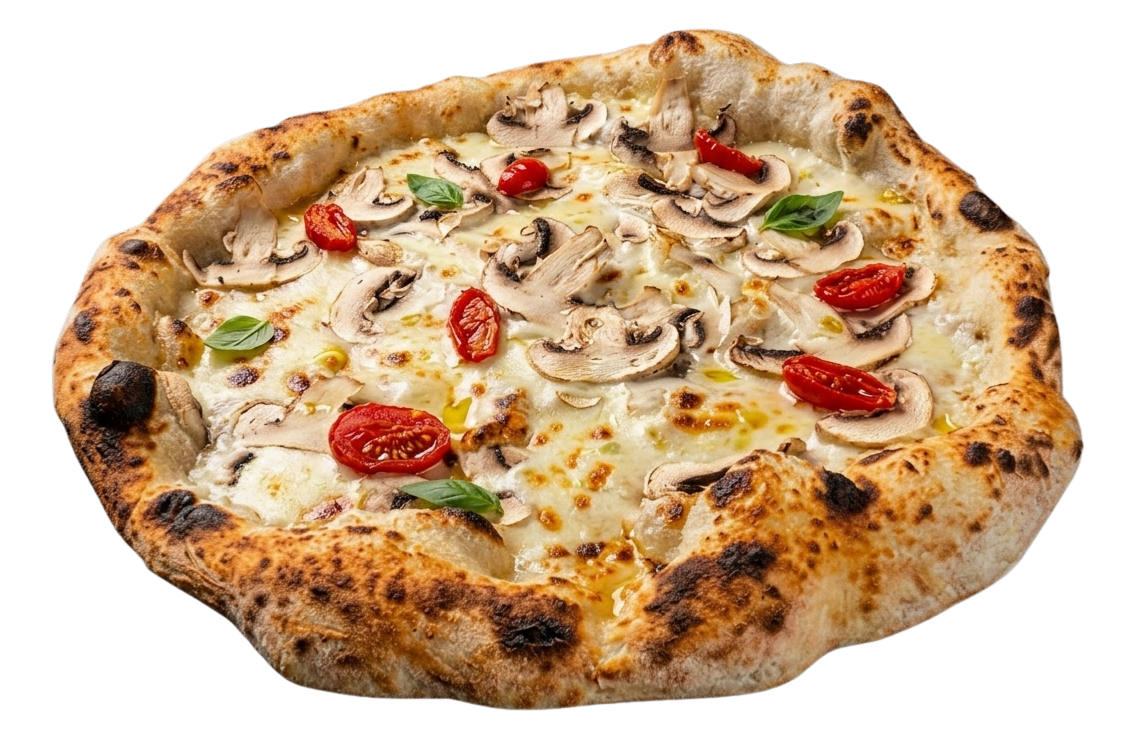
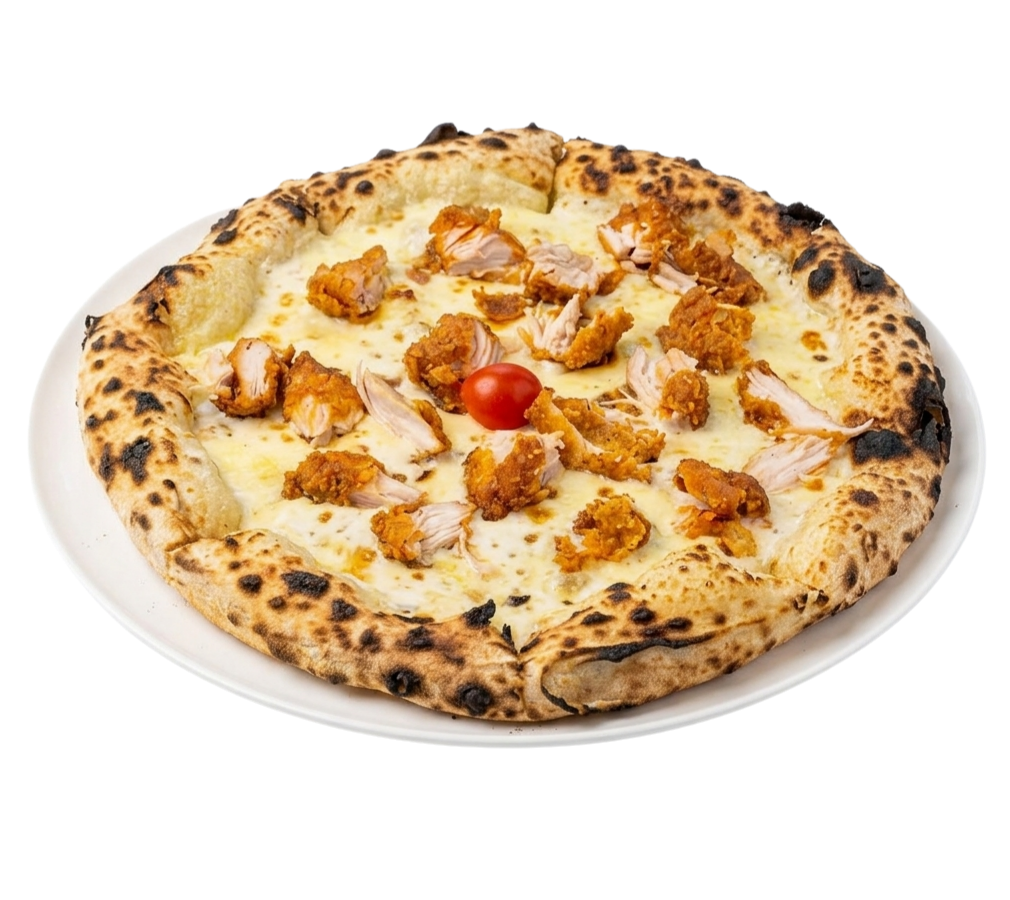
feat: améliorer la gestion des sections et des sous-catégories dans le menu

diff --git a/src/components/publicOrder/DishList.tsx b/src/components/publicOrder/DishList.tsx
@@ -24,6 +24,12 @@ function getCategoryId(item: MenuItem): string {
   return typeof item.category === "object" ? item.category._id : item.category;
 }
 
+function getBasePrice(item: MenuItem): number {
+  return item.variants.length
+    ? Math.min(...item.variants.map((variant) => variant.price))
+    : Number.POSITIVE_INFINITY;
+}
+
 /**
  * Grille des plats, et hôte de la fiche produit.
  *
@@ -99,17 +105,49 @@ export function DishList({ items, nav }: DishListProps) {
       ? items.filter((item) => activeIds.includes(getCategoryId(item)))
       : items;
 
-    if (!search.trim()) return byCategory;
+    const searchedItems = !search.trim()
+      ? byCategory
+      : (() => {
+          // La recherche couvre la description : on retrouve souvent un plat
+          // par un ingrédient dont on a oublié le nom.
+          const query = search.toLowerCase();
+          return byCategory.filter(
+            (item) =>
+              item.name.toLowerCase().includes(query) ||
+              item.description?.toLowerCase().includes(query),
+          );
+        })();
 
-    // La recherche couvre la description : on retrouve souvent un plat par un
-    // ingrédient dont on a oublié le nom.
-    const query = search.toLowerCase();
-    return byCategory.filter(
-      (item) =>
-        item.name.toLowerCase().includes(query) ||
-        item.description?.toLowerCase().includes(query),
+    const sections =
+      nav.find((group) => group.label === groupLabel)?.sections ?? [];
+    const sectionRankByItemId = new Map(
+      sections.flatMap((section, index) =>
+        section.itemIds.map((itemId) => [itemId, index] as const),
+      ),
     );
+
+    return [...searchedItems].sort((a, b) => {
+      const sectionA =
+        sectionRankByItemId.get(a._id) ?? Number.POSITIVE_INFINITY;
+      const sectionB =
+        sectionRankByItemId.get(b._id) ?? Number.POSITIVE_INFINITY;
+      return (
+        sectionA - sectionB ||
+        getBasePrice(a) - getBasePrice(b) ||
+        a.name.localeCompare(b.name, "fr")
+      );
+    });
   }, [items, nav, groupLabel, subCategoryId, search]);
+
+  const sectionsByItemId = useMemo(() => {
+    const sections =
+      nav.find((group) => group.label === groupLabel)?.sections ?? [];
+    return new Map(
+      sections.flatMap((section) =>
+        section.itemIds.map((itemId) => [itemId, section.label] as const),
+      ),
+    );
+  }, [nav, groupLabel]);
 
   const configuredItem = sheet
     ? (items.find((item) => item._id === sheet.menuItemId) ?? null)
@@ -190,14 +228,30 @@ export function DishList({ items, nav }: DishListProps) {
         // tacos s'y étale sur quatre lignes à côté d'une photo minuscule.
         // Une carte horizontale a besoin de largeur, pas de densité.
         <div className="grid gap-3 xl:grid-cols-2">
-          {filteredItems.map((item) => (
-            <DishCard
-              key={item._id}
-              item={item}
-              inCart={quantityByItem[item._id] ?? 0}
-              onSelect={handleSelect}
-            />
-          ))}
+          {filteredItems.map((item, index) => {
+            const sectionLabel = sectionsByItemId.get(item._id);
+            const previousSectionLabel =
+              index > 0
+                ? sectionsByItemId.get(filteredItems[index - 1]._id)
+                : null;
+            const showSection =
+              sectionLabel && sectionLabel !== previousSectionLabel;
+
+            return (
+              <div key={item._id} className="contents">
+                {showSection && (
+                  <h2 className="col-span-full mt-3 border-b border-primary/20 pb-2 font-heading text-lg font-bold text-foreground first:mt-0">
+                    {sectionLabel}
+                  </h2>
+                )}
+                <DishCard
+                  item={item}
+                  inCart={quantityByItem[item._id] ?? 0}
+                  onSelect={handleSelect}
+                />
+              </div>
+            );
+          })}
         </div>
       )}
 

diff --git a/src/components/publicOrder/MenuFilters.tsx b/src/components/publicOrder/MenuFilters.tsx
@@ -115,7 +115,7 @@ export function MenuFilters({ nav }: MenuFiltersProps) {
         Catégories
       </p>
 
-      <div className="scrollbar-hide flex gap-2 overflow-x-auto lg:flex-col lg:gap-1.5 lg:overflow-x-visible">
+      <div className="order-1 scrollbar-hide flex gap-2 overflow-x-auto lg:order-2 lg:flex-col lg:gap-1.5 lg:overflow-x-visible">
         <GroupTab
           label="Tout le menu"
           count={totalCount}
@@ -135,25 +135,30 @@ export function MenuFilters({ nav }: MenuFiltersProps) {
 
       {/* Second niveau, seulement si le groupe fusionne plusieurs catégories */}
       {activeGroup && activeGroup.subs.length > 1 && (
-        <div className="scrollbar-hide flex items-center gap-1 overflow-x-auto rounded-2xl bg-primary/5 px-2 py-1 lg:ml-2 lg:flex-col lg:items-stretch lg:gap-0.5 lg:overflow-x-visible lg:rounded-xl lg:px-1.5 lg:py-1.5">
-          {/* La flèche indique l'imbrication en ligne ; en colonne, le retrait
+        <div className="order-2 flex flex-col gap-1 rounded-2xl bg-primary/5 px-2 py-2 lg:order-1 lg:ml-2 lg:rounded-xl lg:px-1.5 lg:py-1.5">
+          <span className="px-3 pb-0.5 text-[10px] font-bold uppercase tracking-wide text-foreground/40">
+            Sous-catégories
+          </span>
+          <div className="scrollbar-hide flex items-center gap-1 overflow-x-auto lg:flex-col lg:items-stretch lg:gap-0.5 lg:overflow-x-visible">
+            {/* La flèche indique l'imbrication en ligne ; en colonne, le retrait
               et la barre latérale des SubTab la disent déjà. */}
-          <span className="icon-[mdi--subdirectory-arrow-right] shrink-0 text-base text-foreground/30 lg:hidden" />
-          <SubTab
-            label="Tout"
-            count={activeGroup.count}
-            isSelected={subCategoryId === null}
-            onClick={() => dispatch(subCategorySelected(null))}
-          />
-          {activeGroup.subs.map((sub) => (
+            <span className="icon-[mdi--subdirectory-arrow-right] shrink-0 text-base text-foreground/30 lg:hidden" />
             <SubTab
-              key={sub.categoryId}
-              label={sub.label}
-              count={sub.count}
-              isSelected={subCategoryId === sub.categoryId}
-              onClick={() => dispatch(subCategorySelected(sub.categoryId))}
+              label="Tout"
+              count={activeGroup.count}
+              isSelected={subCategoryId === null}
+              onClick={() => dispatch(subCategorySelected(null))}
             />
-          ))}
+            {activeGroup.subs.map((sub) => (
+              <SubTab
+                key={sub.categoryId}
+                label={sub.label}
+                count={sub.count}
+                isSelected={subCategoryId === sub.categoryId}
+                onClick={() => dispatch(subCategorySelected(sub.categoryId))}
+              />
+            ))}
+          </div>
         </div>
       )}
     </aside>

diff --git a/src/features/menu/menuNav.ts b/src/features/menu/menuNav.ts
@@ -7,11 +7,18 @@ export interface MenuNavSub {
   count: number;
 }
 
+export interface MenuNavSection {
+  label: string;
+  itemIds: string[];
+  count: number;
+}
+
 export interface MenuNavGroup {
   label: string;
   categoryIds: string[];
   count: number;
   subs: MenuNavSub[]; // vide si le groupe ne fusionne qu'une catégorie
+  sections: MenuNavSection[];
 }
 
 function getCategoryId(item: MenuItem): string {
@@ -68,6 +75,21 @@ export function buildMenuNav(
               count: counts[category._id] ?? 0,
             }))
           : [],
+      sections: (config.sections ?? [])
+        .map((section) => {
+          const sectionItems = items.filter(
+            (item) =>
+              matching.some(
+                (category) => category._id === getCategoryId(item),
+              ) && section.test(item),
+          );
+          return {
+            label: section.label,
+            itemIds: sectionItems.map((item) => item._id),
+            count: sectionItems.length,
+          };
+        })
+        .filter((section) => section.count > 0),
     });
   }
 
@@ -79,6 +101,7 @@ export function buildMenuNav(
       categoryIds: [category._id],
       count: counts[category._id] ?? 0,
       subs: [],
+      sections: [],
     });
   }
 

diff --git a/src/features/menu/categoryGroups.ts b/src/features/menu/categoryGroups.ts
@@ -45,12 +45,12 @@ export const CATEGORY_GROUPS: CategoryGroupConfig[] = [
     categoryNames: ["Pizzas"],
     sections: [
       {
-        label: "Sauce Blanche",
+        label: "Sauce blanche",
         test: (item) => descriptionIncludes(item, "blanche"),
       },
       {
-        label: "Sauce Tomate",
-        test: (item) => descriptionIncludes(item, "tomate"),
+        label: "Sauce rouge",
+        test: (item) => !descriptionIncludes(item, "blanche"),
       },
     ],
   },
